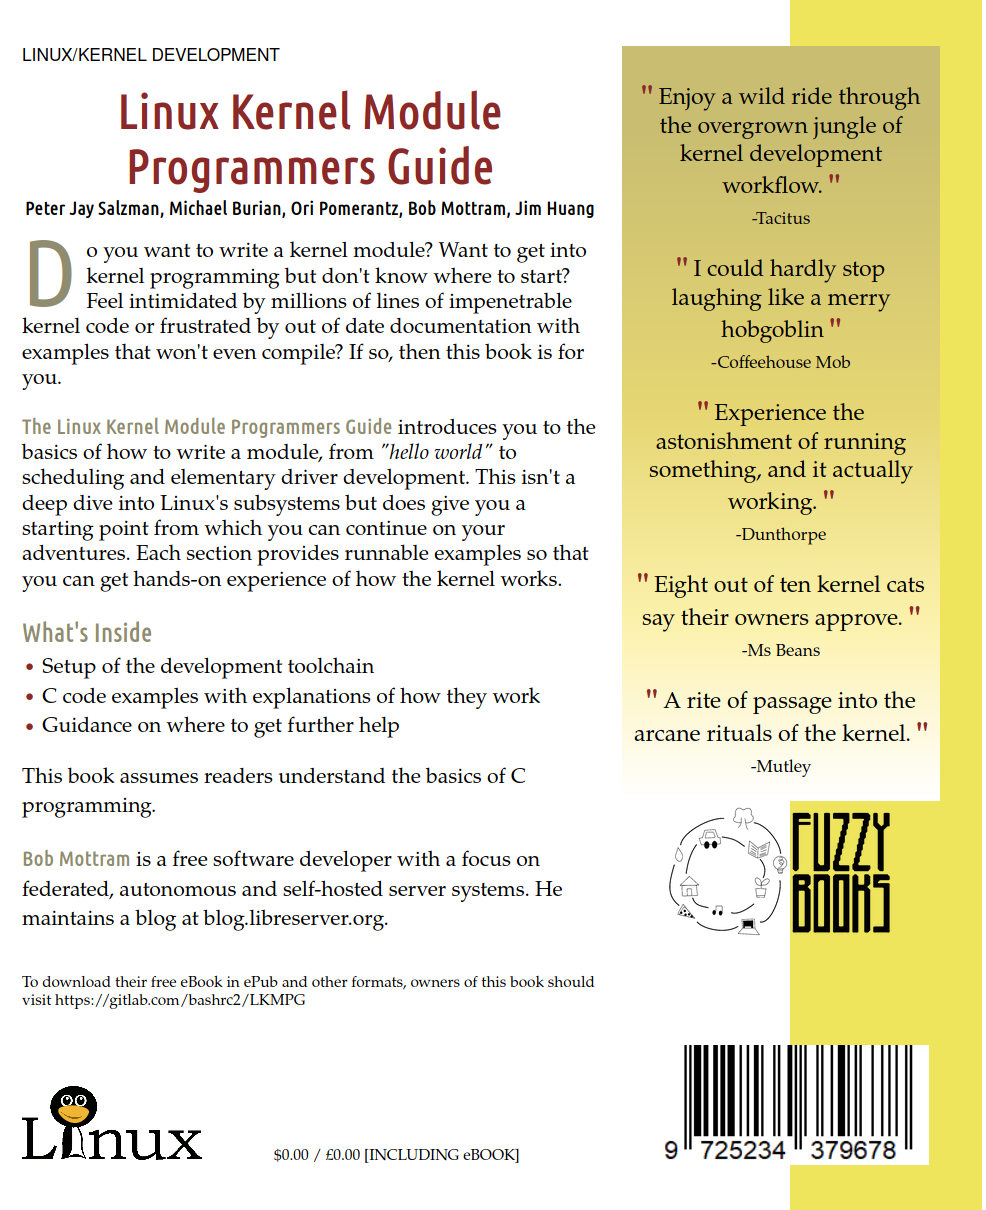
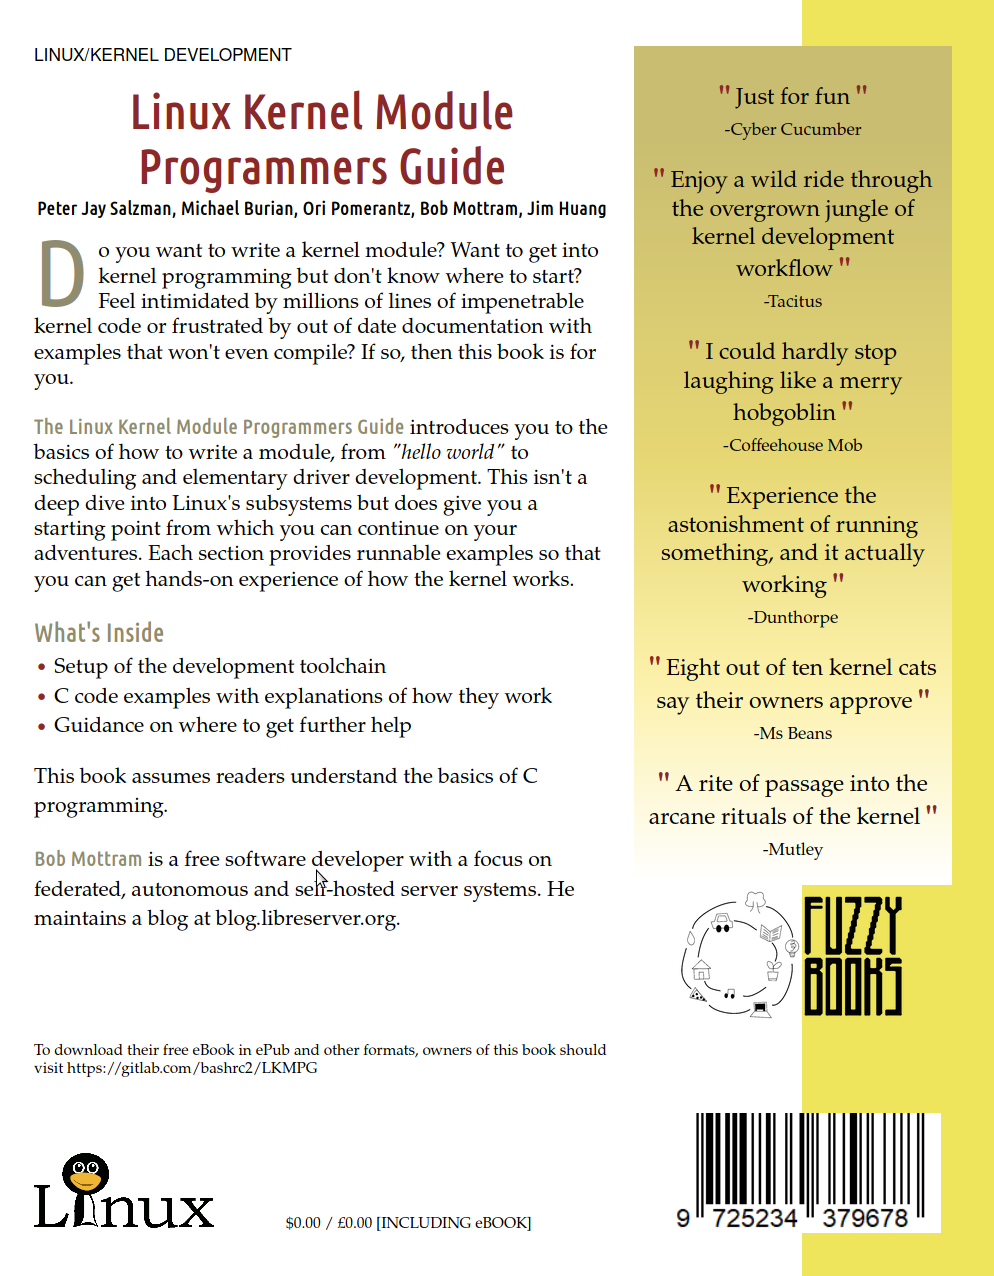
Back cover

diff --git a/5.13.8/back/index.html b/5.13.8/back/index.html
@@ -7,115 +7,120 @@
     <link rel="stylesheet" href="css/style.css">
   </head>
   <body>
-    
+
     <div id="container">
-      
+
       <main>
-	
-	<header id="main-header">
-	  <h3>LINUX/KERNEL DEVELOPMENT</h3>
-	</header>
-	
-	<article>
-	  
-	  <header id="article-header">
-	    <h1>Linux Kernel Module Programmers Guide</h1>
-	    <h6>Peter Jay Salzman, Michael Burian, Ori Pomerantz, Bob Mottram, Jim Huang</h6>
-	  </header>
-	  
-	  <section id="intro">
-	    <p>
-	      Do you want to write a kernel module? Want to get into kernel
-	      programming but don't know where to start? Feel intimidated by
-	      millions of lines of impenetrable kernel code or frustrated
-	      by out of date documentation with examples that won't even
-	      compile? If so, then this book is for you.
-	    </p>
-	    <p>
-	      <span id="title">The Linux Kernel Module Programmers Guide</span>
-	      introduces you to the basics of how to write a module, from
-	      <i>"hello world"</i> to scheduling and elementary driver
-	      development. This isn't a deep dive into Linux's subsystems but
-	      does give you a starting point from which you can continue on
-	      your adventures. Each section provides runnable examples so
-	      that you can get hands-on experience of how the kernel works.
-	    </p>
-	  </section>
-	  
-	  <section id="inside">
-	    
-	    <header id="section-header">
-	      <h3>What's Inside</h3>
-	    </header>
-	    
-	    <ul>
-	      <li>Setup of the development toolchain</li>
-	      <li>C code examples with explanations of how they work</li>
-	      <li>Guidance on where to get further help</li>
-	    </ul>
-	    
-	    <p>This book assumes readers understand the basics of C programming.</p>
-	    
-	  </section>
-	  
-	  <section id="author">
-	    
-	    <p>
-	      <span id="author-name">Bob Mottram</span> is a free software developer with a focus on federated, autonomous and self-hosted server systems. He maintains a blog at blog.libreserver.org.
-	    </p>
-	    
-	  </section>
-	  
-	</article>
-	
+
+        <header id="main-header">
+          <h3>LINUX/KERNEL DEVELOPMENT</h3>
+        </header>
+
+        <article>
+
+          <header id="article-header">
+            <h1>Linux Kernel Module Programmers Guide</h1>
+            <h6>Peter Jay Salzman, Michael Burian, Ori Pomerantz, Bob Mottram, Jim Huang</h6>
+          </header>
+
+          <section id="intro">
+            <p>
+              Do you want to write a kernel module? Want to get into kernel
+              programming but don't know where to start? Feel intimidated by
+              millions of lines of impenetrable kernel code or frustrated
+              by out of date documentation with examples that won't even
+              compile? If so, then this book is for you.
+            </p>
+            <p>
+              <span id="title">The Linux Kernel Module Programmers Guide</span>
+              introduces you to the basics of how to write a module, from
+              <i>"hello world"</i> to scheduling and elementary driver
+              development. This isn't a deep dive into Linux's subsystems but
+              does give you a starting point from which you can continue on
+              your adventures. Each section provides runnable examples so
+              that you can get hands-on experience of how the kernel works.
+            </p>
+          </section>
+
+          <section id="inside">
+
+            <header id="section-header">
+              <h3>What's Inside</h3>
+            </header>
+
+            <ul>
+              <li>Setup of the development toolchain</li>
+              <li>C code examples with explanations of how they work</li>
+              <li>Guidance on where to get further help</li>
+            </ul>
+
+            <p>This book assumes readers understand the basics of C programming.</p>
+
+          </section>
+
+          <section id="author">
+
+            <p>
+              <span id="author-name">Bob Mottram</span> is a free software developer with a focus on federated, autonomous and self-hosted server systems. He maintains a blog at blog.libreserver.org.
+            </p>
+
+          </section>
+
+        </article>
+
       </main>
-      
+
       <aside>
-	
-	<div id="quotes">
-	  
-	  <p class="quote">
-	    Enjoy a wild ride through the overgrown jungle of kernel development workflow.
-	  </p>
-	  <p class="author">-Tacitus</p>
-	  
-	  <p class="quote">
-	    I could hardly stop laughing like a merry hobgoblin
-	  </p>
-	  <p class="author">-Coffeehouse Mob</p>
-	  
-	  <p class="quote">
-	    Experience the astonishment of running something, and it actually working.
-	  </p>
-	  <p class="author">-Dunthorpe</p>
-	  
-	  <p class="quote">
-	    Eight out of ten kernel cats say their owners approve.
-	  </p>
-	  <p class="author">-Ms Beans</p>
-	  
-	  <p class="quote">
-	    A rite of passage into the arcane rituals of the kernel.
-	  </p>
-	  <p class="author">-Mutley</p>
-	</div>
-	
-	<div id="free-ebook">
-	  <img src="img/ebooks.png" alt="free ebook">
-	</div>
-	
+
+        <div id="quotes">
+
+          <p class="quote">
+            Just for fun
+          </p>
+          <p class="author">-Cyber Cucumber</p>
+
+          <p class="quote">
+            Enjoy a wild ride through the overgrown jungle of kernel development workflow
+          </p>
+          <p class="author">-Tacitus</p>
+
+          <p class="quote">
+            I could hardly stop laughing like a merry hobgoblin
+          </p>
+          <p class="author">-Coffeehouse Mob</p>
+
+          <p class="quote">
+            Experience the astonishment of running something, and it actually working
+          </p>
+          <p class="author">-Dunthorpe</p>
+
+          <p class="quote">
+            Eight out of ten kernel cats say their owners approve
+          </p>
+          <p class="author">-Ms Beans</p>
+
+          <p class="quote">
+            A rite of passage into the arcane rituals of the kernel
+          </p>
+          <p class="author">-Mutley</p>
+        </div>
+
+        <div id="free-ebook">
+          <img src="img/ebooks.png" alt="free ebook">
+        </div>
+
       </aside>
-      
+
       <footer id="page-footer">
-	<p id="instructions">
-	  To download their free eBook in ePub and other formats, owners of 
-	  this book should visit https://gitlab.com/bashrc2/LKMPG
-	</p>
-	<img src="img/logo.gif" alt="publisher">
-	<p id="price">$0.00 / £0.00 [INCLUDING eBOOK]</p>
+        <p id="instructions">
+          To download their free eBook in ePub and other formats, owners of
+          this book should visit https://gitlab.com/bashrc2/LKMPG
+        </p>
+        <img src="img/logo.gif" alt="publisher">
+        <p id="price">$0.00 / £0.00 [INCLUDING eBOOK]</p>
       </footer>
-      
+
     </div>
-    
+
   </body>
 </html>
